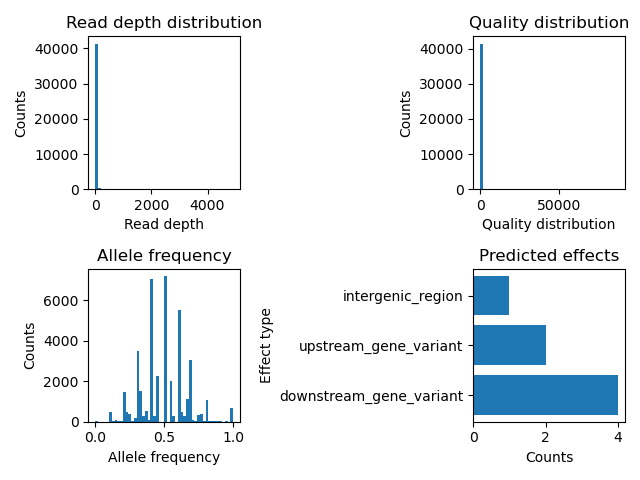
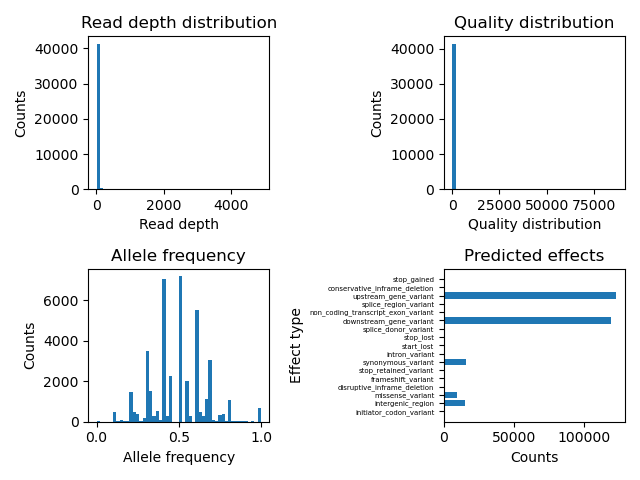
Fixed ANN parsing

diff --git a/week3-homework/hw3_plotting.py b/week3-homework/hw3_plotting.py
@@ -33,8 +33,9 @@ def parse_anns(anns):
 		fields = a.split('|')
 		# If it ever equals A T C or G, need to count the next one 
 		for i in range(len(fields)):
-			if fields[i] in 'ATCG'.split():
-				types.append(fields[i+1])
+			if fields[i] in 'A T C G'.split():
+				if fields[i+1] == '': continue
+				types += fields[i+1].split('&')
 	return types
 
 # Parse vcf file
@@ -73,10 +74,13 @@ axs[1,0].set_xlabel('Allele frequency')
 anns = parse_anns(parse_vcf(vcf, 7, 'ANN')) # get one of them 
 effects = list(set(anns))
 freq = [anns.count(e) for e in effects]
-axs[1,1].barh(np.arange(len(effects)), freq, tick_label=effects)
+print(effects)
+axs[1,1].barh(np.arange(len(effects)), freq)
 axs[1,1].set_title('Predicted effects')
 axs[1,1].set_xlabel('Counts')
 axs[1,1].set_ylabel('Effect type')
+axs[1,1].set_yticks(np.arange(len(effects)))
+axs[1,1].set_yticklabels(effects, fontdict={'fontsize':5})
 
 plt.tight_layout()
 plt.savefig('hw3.8.png')
